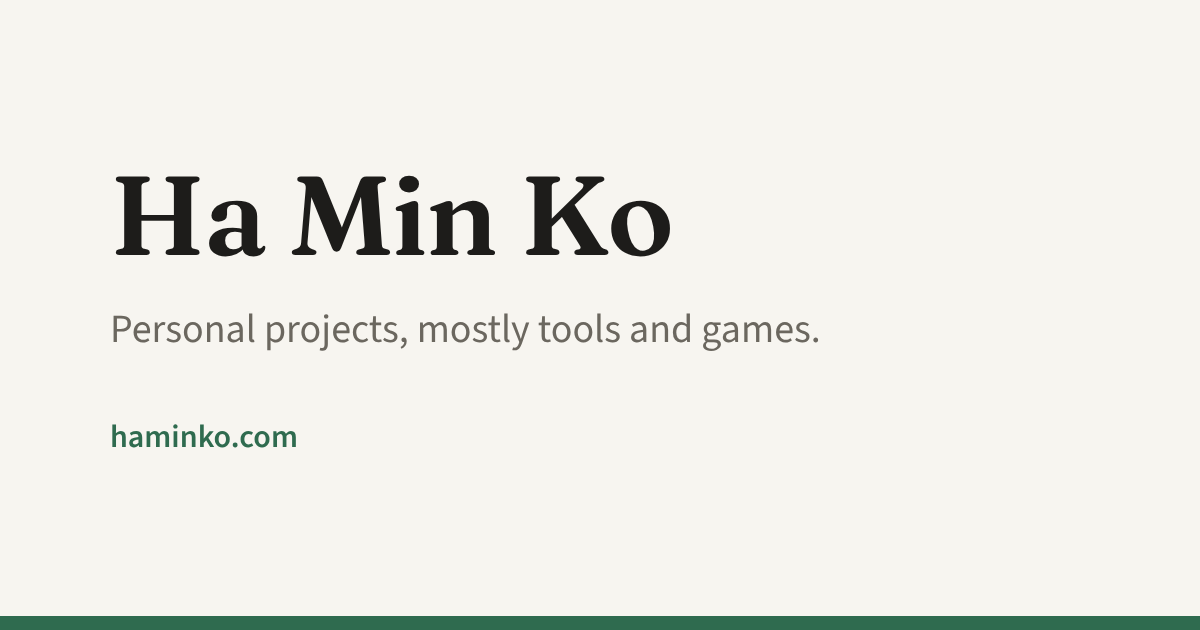
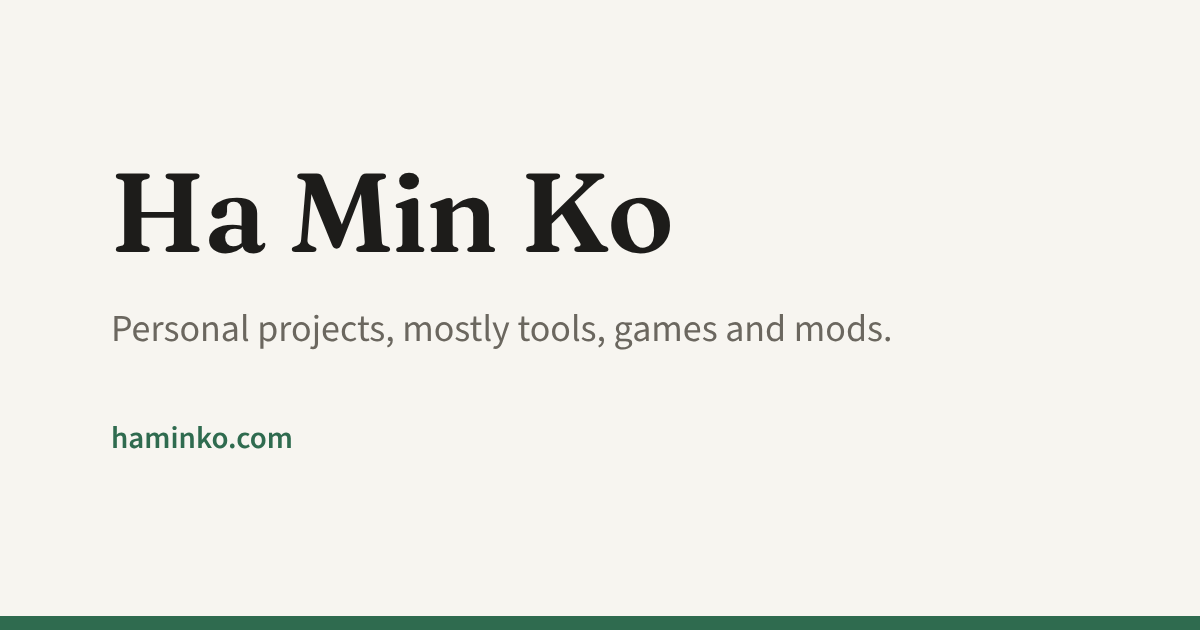
Say tools, games and mods
Claude-Session: https://claude.ai/code/session_01TWJCyMkYXDGDRddxGdk7X3

diff --git a/index.html b/index.html
@@ -4,16 +4,16 @@
   <meta charset="utf-8">
   <meta name="viewport" content="width=device-width, initial-scale=1">
   <title>Ha Min Ko</title>
-  <meta name="description" content="Ha Min Ko builds personal projects in Boston, mostly tools and games: a StarCraft map library, a Flash game revival and its browser rewrite, and a co-op sliding-block puzzle.">
+  <meta name="description" content="Ha Min Ko builds personal projects in Boston, mostly tools, games and mods: a StarCraft map library, a Flash game revival and its browser rewrite, and a co-op sliding-block puzzle.">
   <link rel="canonical" href="https://haminko.com/">
   <meta property="og:type" content="profile">
   <meta property="og:url" content="https://haminko.com/">
   <meta property="og:title" content="Ha Min Ko">
-  <meta property="og:description" content="Personal projects, mostly tools and games.">
+  <meta property="og:description" content="Personal projects, mostly tools, games and mods.">
   <meta property="og:image" content="https://haminko.com/og.png">
   <meta property="og:image:width" content="1200">
   <meta property="og:image:height" content="630">
-  <meta property="og:image:alt" content="Ha Min Ko: personal projects, mostly tools and games.">
+  <meta property="og:image:alt" content="Ha Min Ko: personal projects, mostly tools, games and mods.">
   <meta name="twitter:card" content="summary_large_image">
   <script type="application/ld+json">
   {"@context": "https://schema.org", "@type": "Person", "name": "Ha Min Ko", "url": "https://haminko.com/",
@@ -107,7 +107,7 @@
 <body>
   <main>
     <h1>Ha Min Ko</h1>
-    <p class="lede">I&rsquo;m based in Boston and build personal projects in my spare time, mostly tools and games.</p>
+    <p class="lede">I&rsquo;m based in Boston and build personal projects in my spare time, mostly tools, games and mods.</p>
     <ul class="links">
       <li><a href="https://www.linkedin.com/in/haminko/">LinkedIn</a></li>
       <li><a href="https://github.com/HaminKo">GitHub</a></li>
